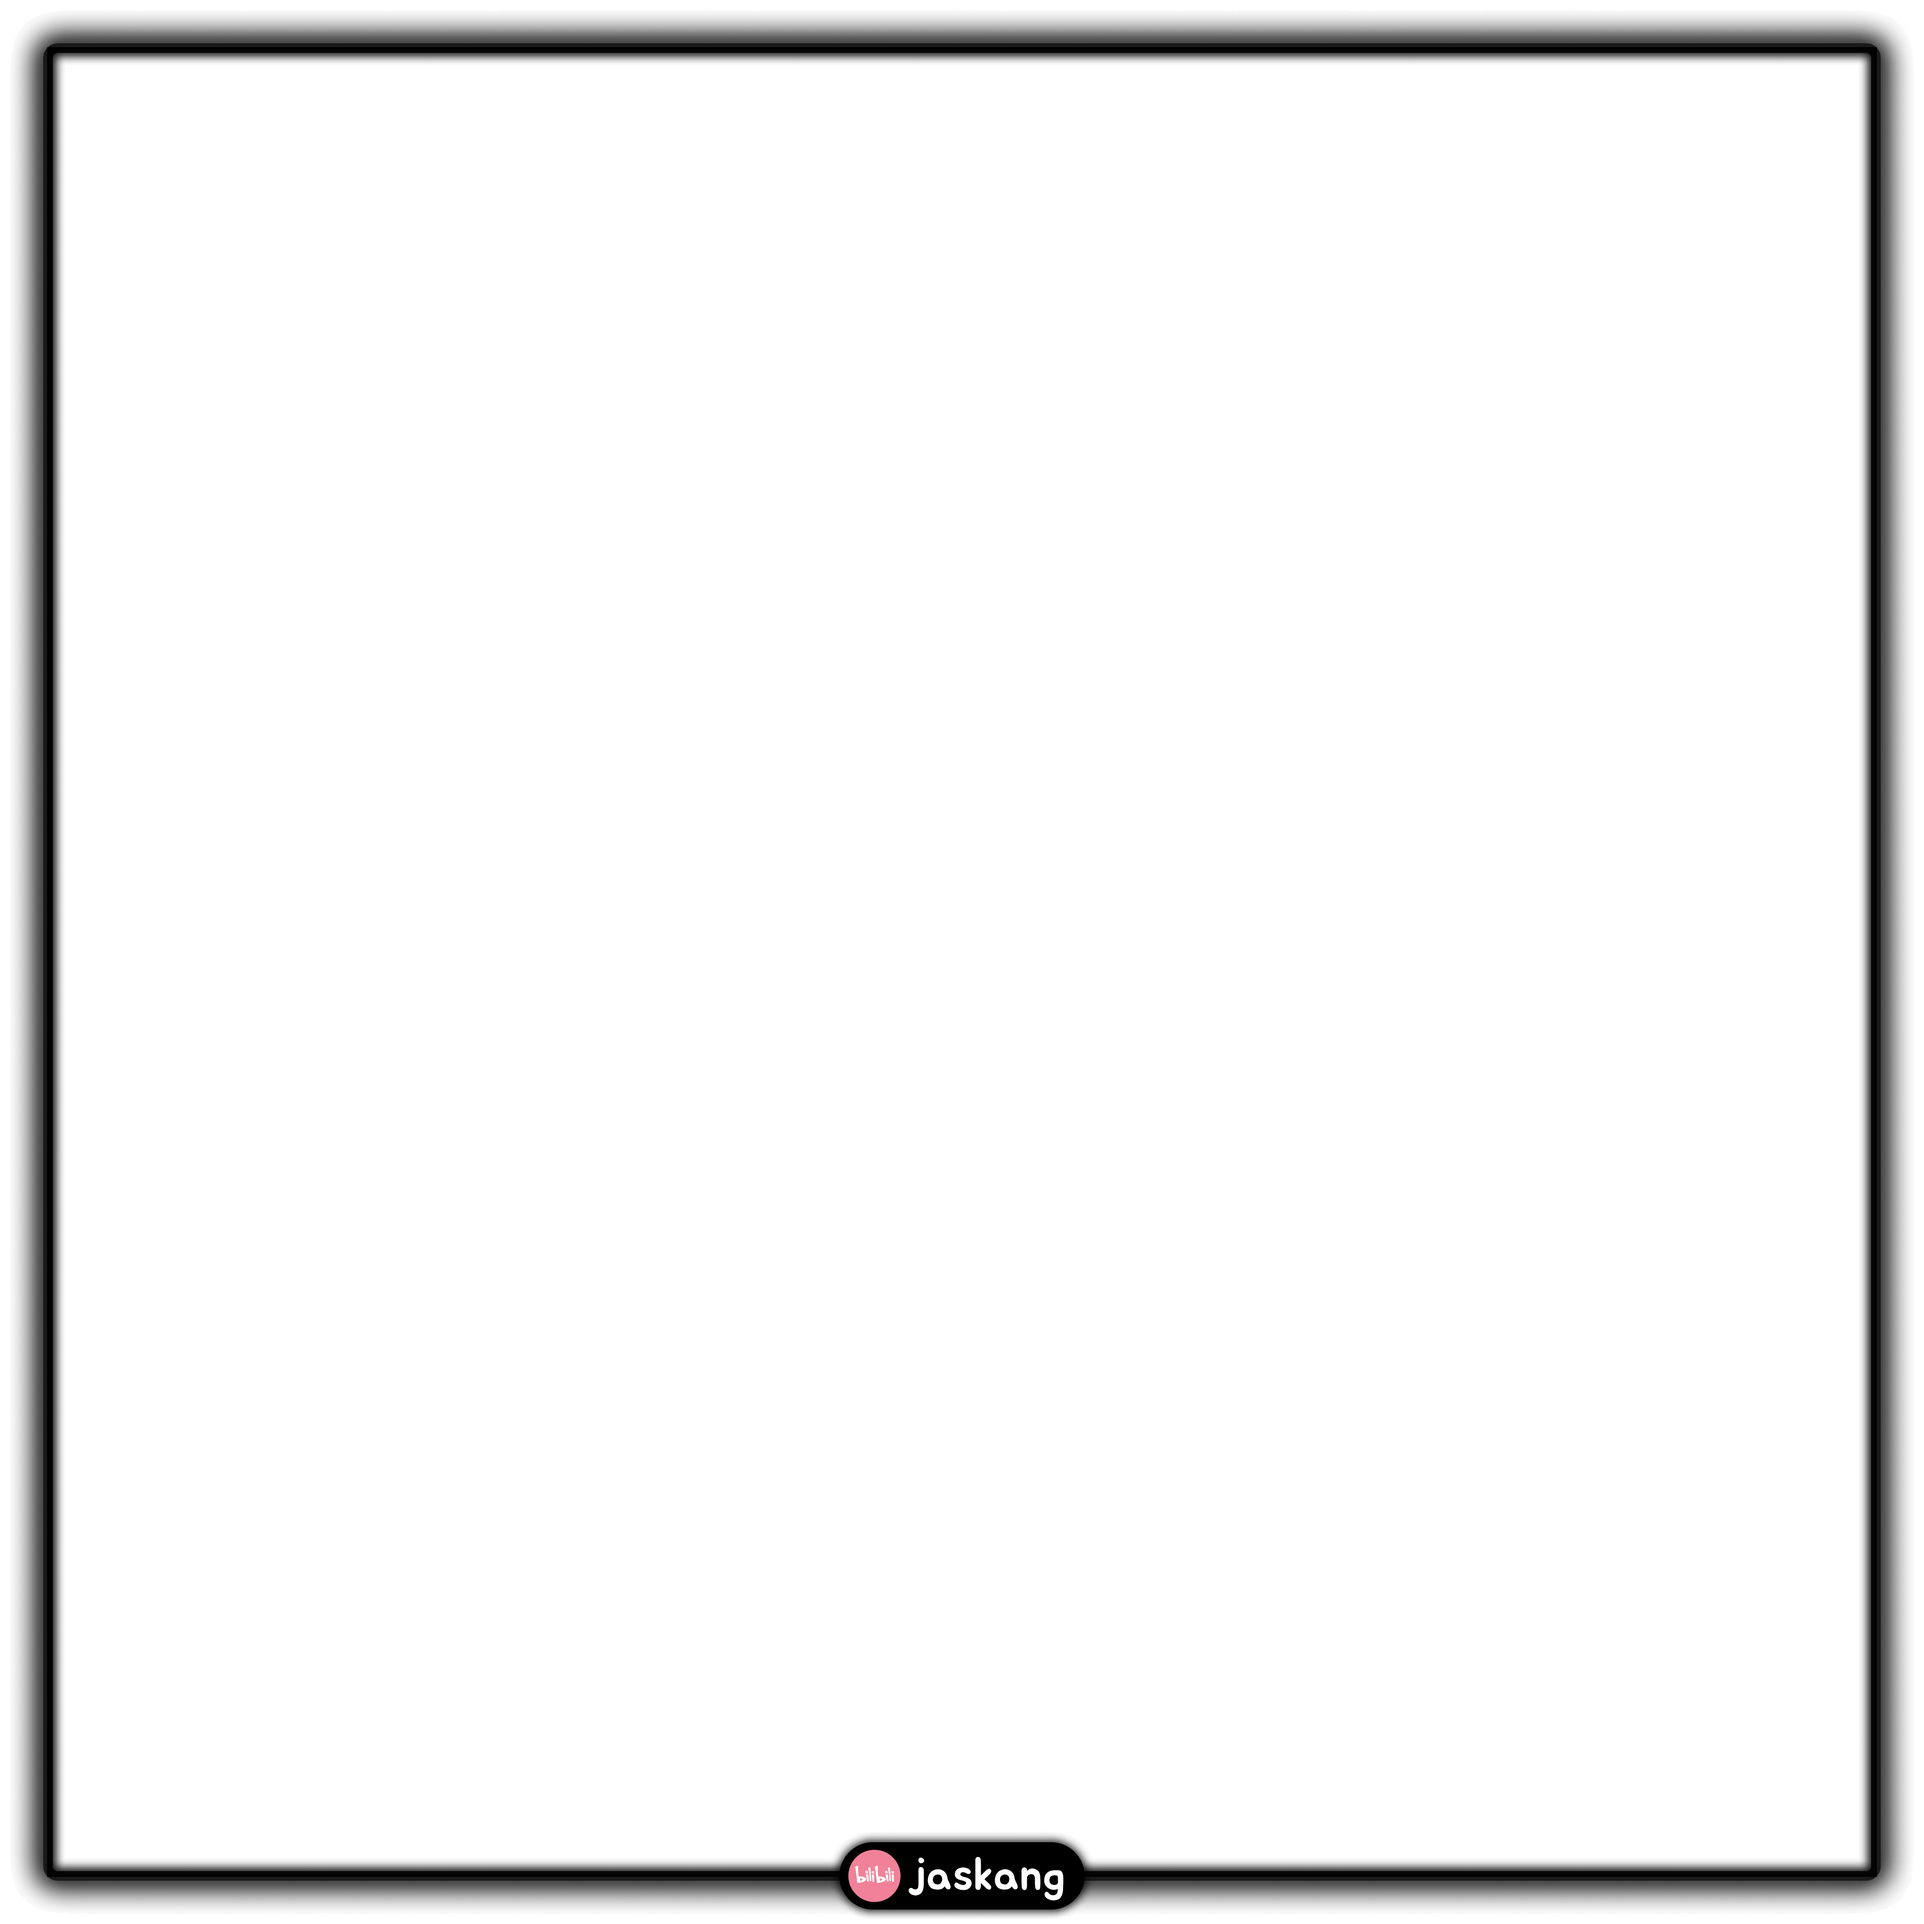
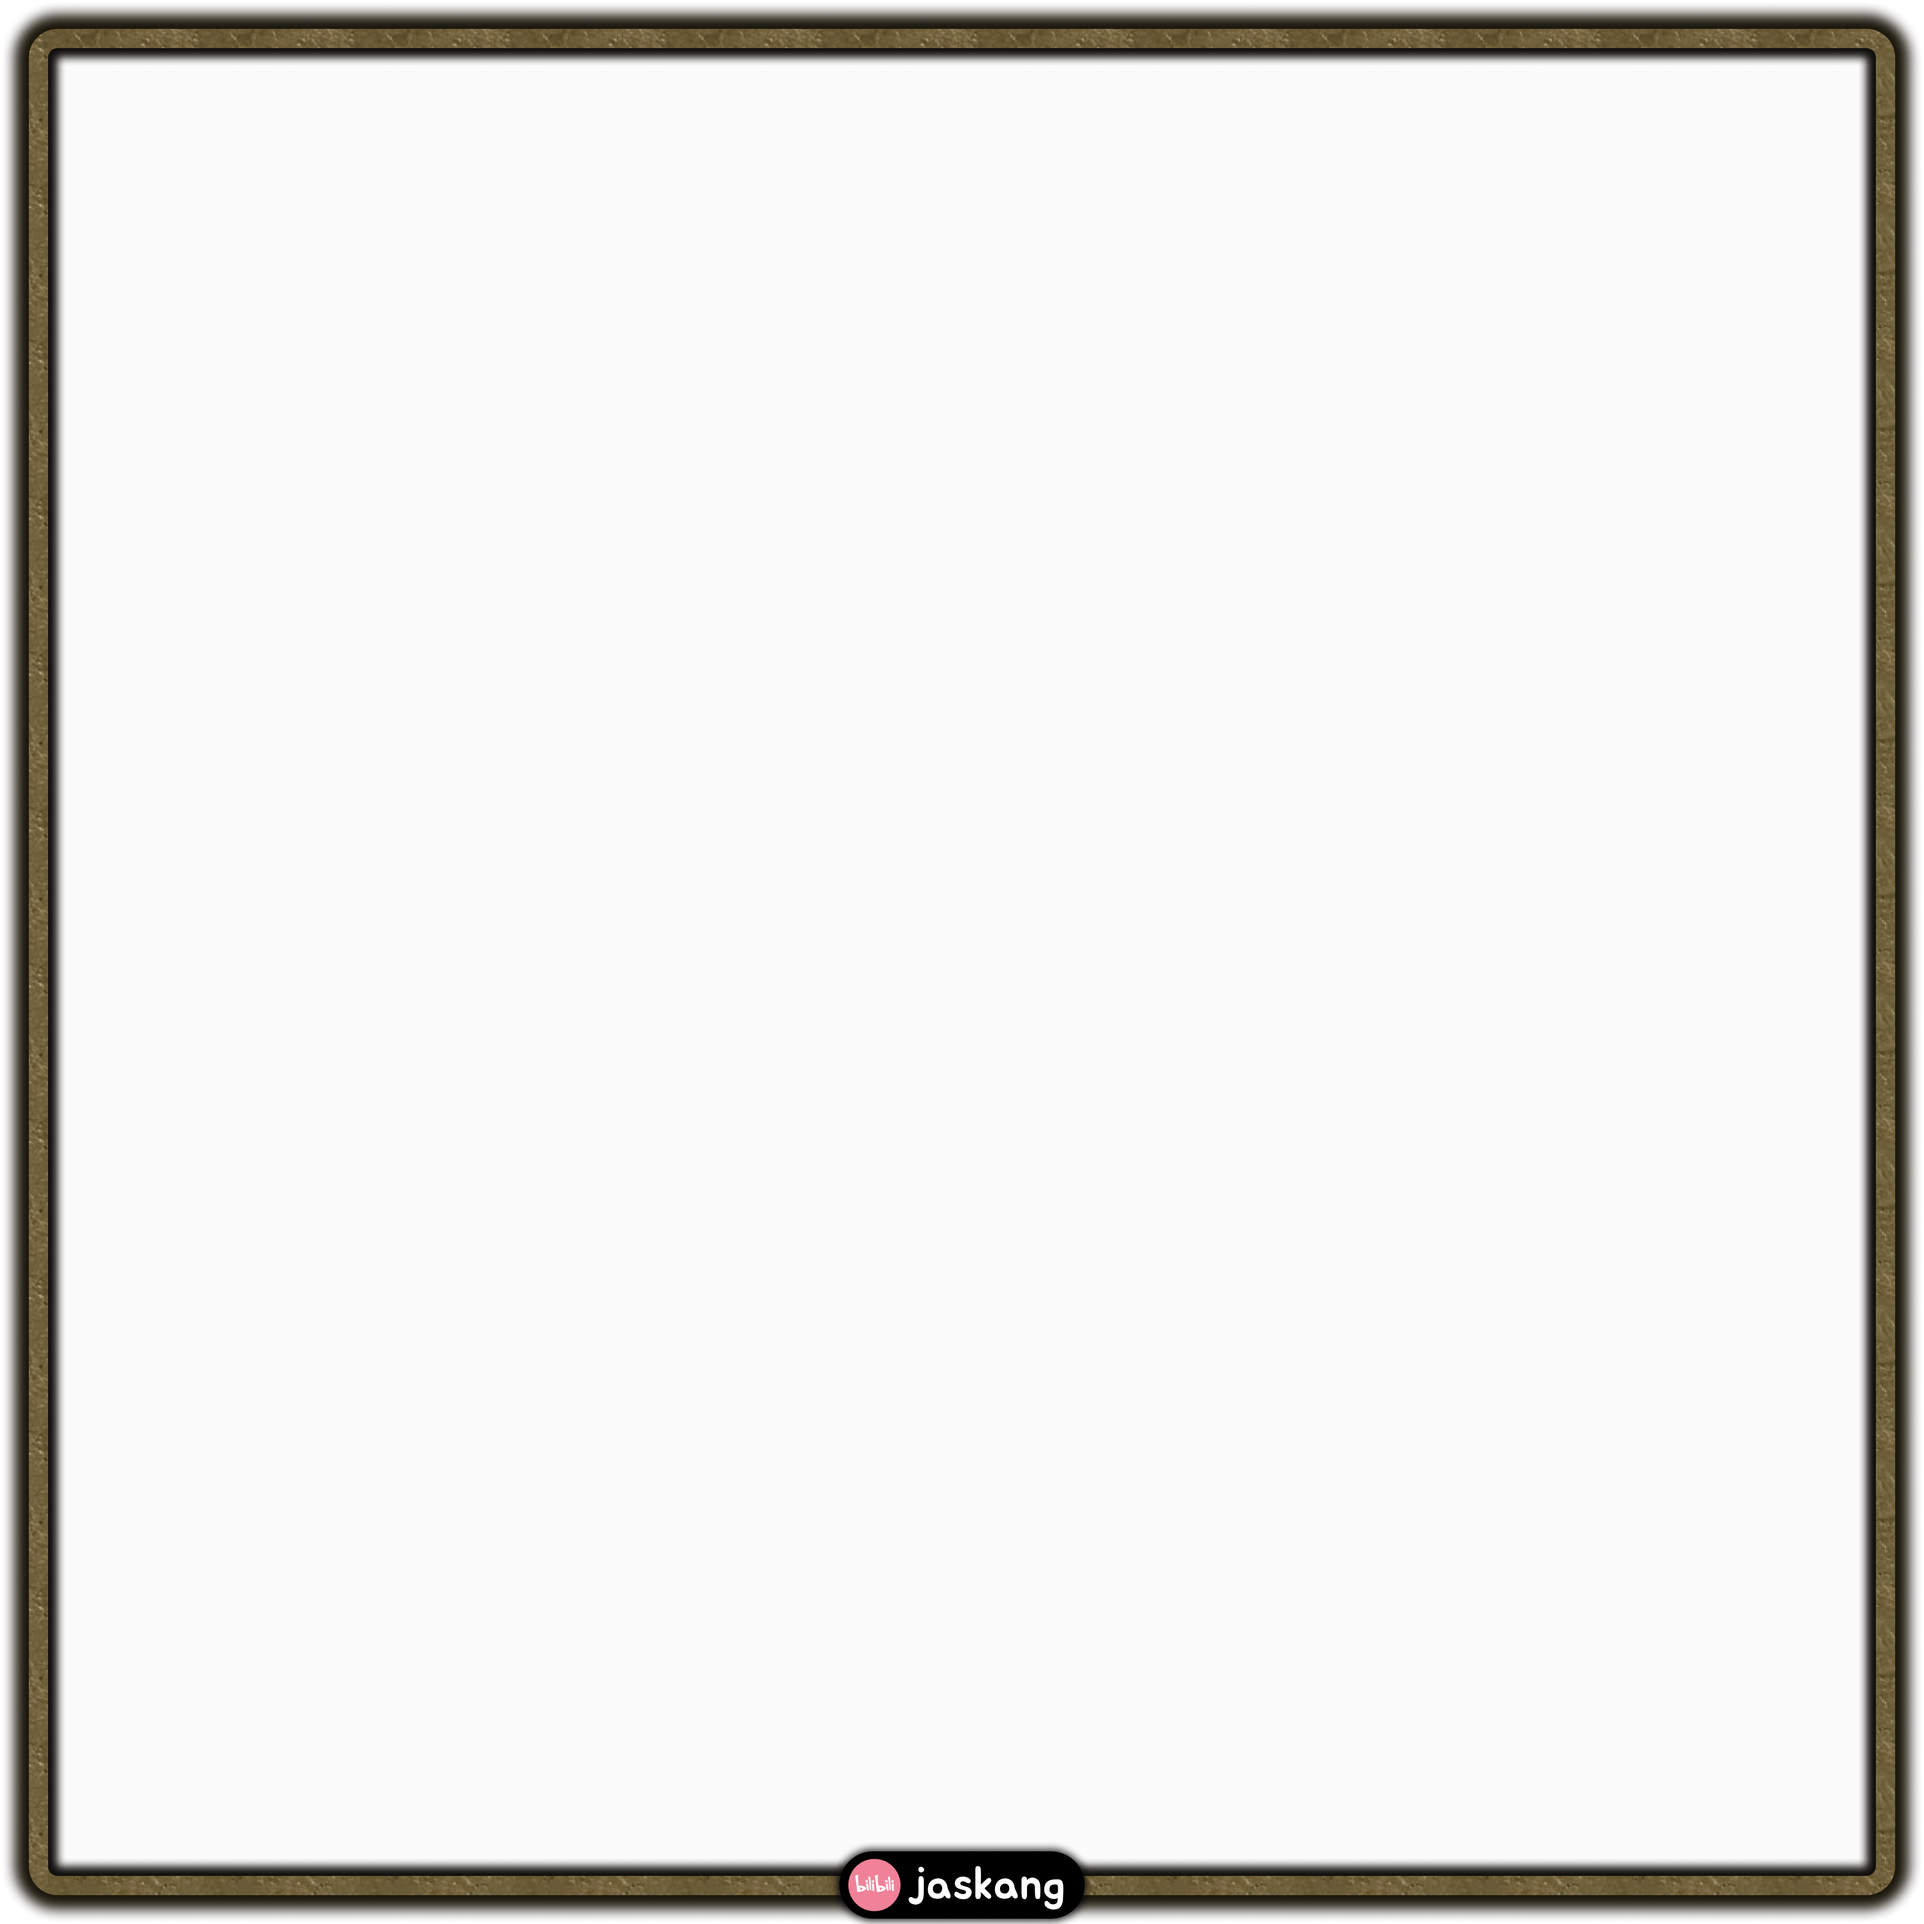
feat: mainWraper

Changed region(s): [[0.0, 0.0, 1.0, 1.0]]

diff --git a/src/render.rs b/src/render.rs
@@ -336,8 +336,8 @@ impl MiniMap {
             let [screen_width, screen_height] = ui.io().display_size;
 
             if self.is_show_main {
-                let window_size = screen_width.min(screen_height) * 0.95;
-                let map_size: f32 = window_size;
+                let window_size = screen_width.min(screen_height);
+                let map_size: f32 = window_size * 0.95;
                 let icon_size = screen_width.min(screen_height) * 0.03;
                 let icon_size_half = icon_size / 2.0;
                 let [offset_x, offset_y] = [
@@ -371,7 +371,7 @@ impl MiniMap {
                                     map_image,
                                     [map_offset_x, map_offset_y],
                                     [map_offset_x + map_size, map_offset_y + map_size],
-                                    8.0,
+                                    0.0,
                                 )
                                 .build();
 
@@ -438,13 +438,13 @@ impl MiniMap {
                                 .build();
 
                             // 绘制外围地图边框
-                            // draw_list
-                            //     .add_image(
-                            //         self.textures.mapwraper.id.unwrap(),
-                            //         [offset_x, offset_y],
-                            //         [offset_x + window_size, offset_y + window_size],
-                            //     )
-                            //     .build();
+                            draw_list
+                                .add_image(
+                                    self.textures.mainwraper.id.unwrap(),
+                                    [offset_x, offset_y],
+                                    [offset_x + window_size, offset_y + window_size],
+                                )
+                                .build();
                         } else {
                             debug!("draw_nomap");
                         }
